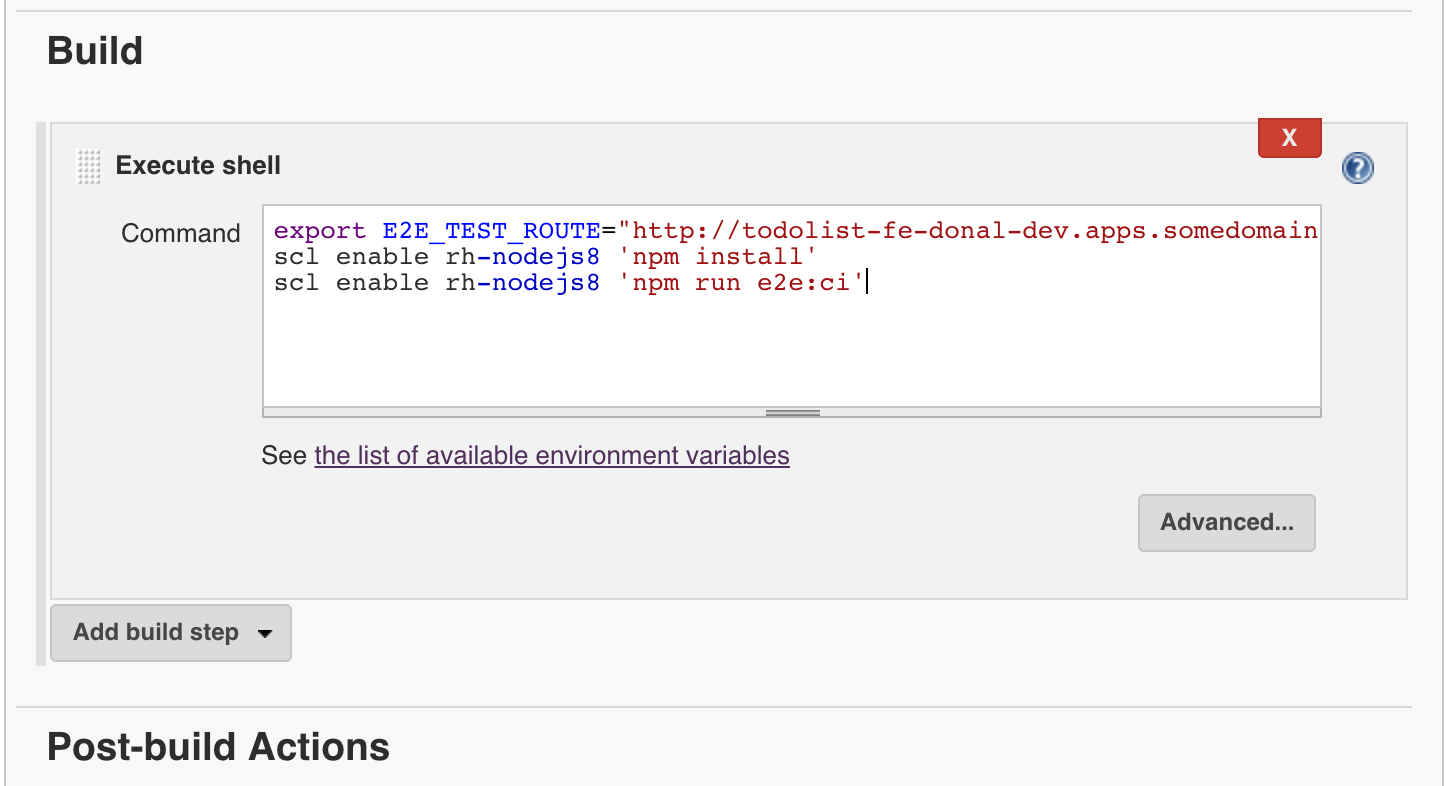
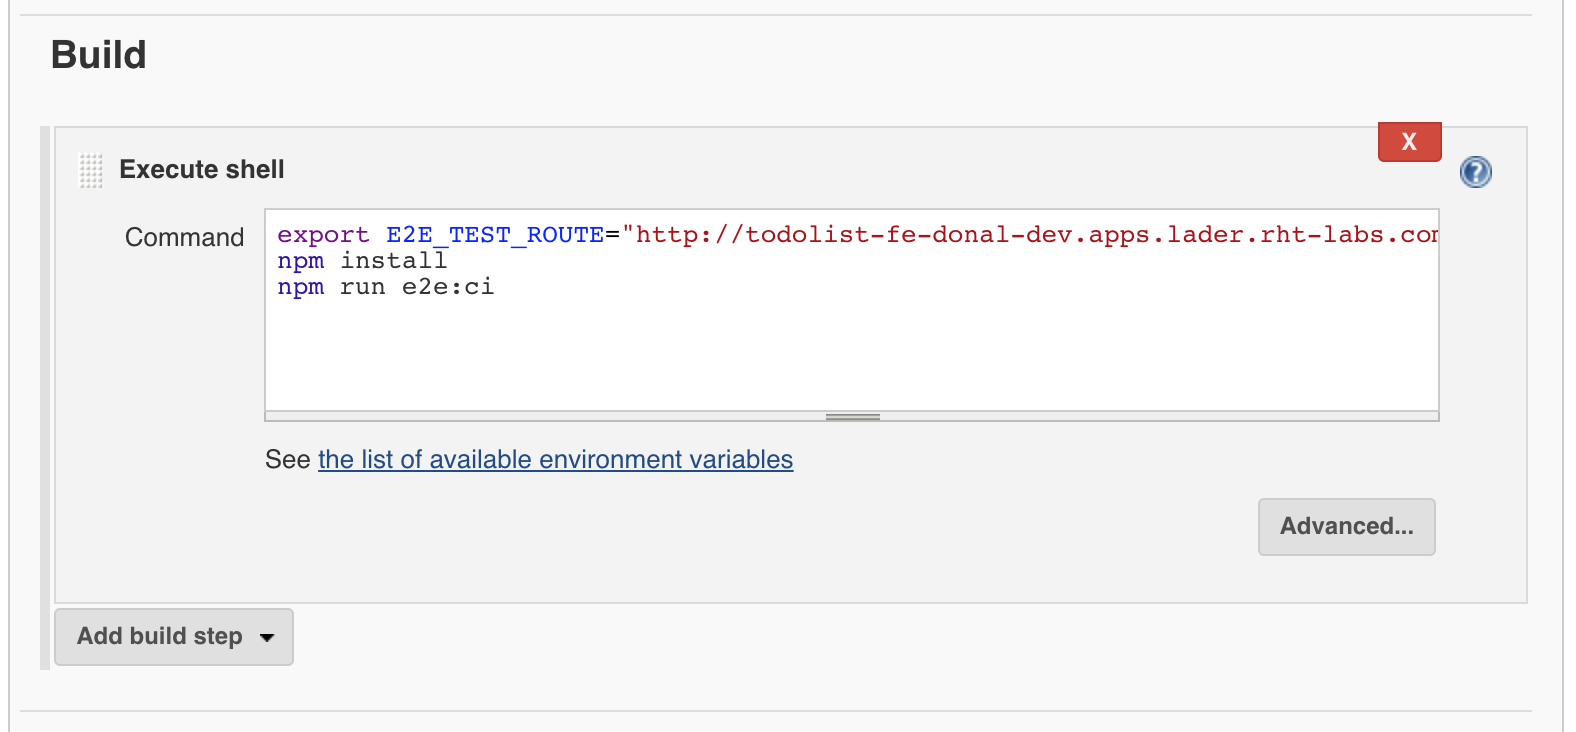
TESTS - fixes for e2e runnins

diff --git a/exercises/3-revenge-of-the-automated-testing/README.md b/exercises/3-revenge-of-the-automated-testing/README.md
@@ -197,7 +197,7 @@ $ npm run e2e
 
 2. Set `Color ANSI Console Output` on the `Build Environment` section 
 
-2. On the Build section; add a build step to execute shell and fill in the followin substituting the domain name and `YOUR_NAME` accordingly:
+2. On the Build section; add a build step to execute shell and fill in the followin substituting the domain name and `<YOUR_NAME>` and `somedomain` accordingly:
 ```bash
 export E2E_TEST_ROUTE="http://todolist-fe-<YOUR_NAME>-dev.apps.somedomain.com/"
 npm install
@@ -205,13 +205,13 @@ npm run e2e:ci
 ```
 ![e2e-steps](../images/exercise3/e2e-steps.png)
 
-2. Add a Post Build action to publish Junit test scores and add `reports/e2e/specs/*.xml` to the report location.
+2. Add a Post Build action to publish Junit test scores and add `reports/e2e/specs/*.xml` to the report location. Save the configuration.
 ![e2e-post-build](../images/exercise3/e2e-post-build.png)
 
-2. Finally; connect the e2e job to our deploy by editing the post build actions on `dev-todolist-fe-deploy`. Set trigger parameterised build on other jobs to be `dev-todolist-fe-e2e` and set the params to the current ones.
+2. Finally; connect the e2e job to our dev pipleline by editing the post build actions on `dev-todolist-fe-deploy` job. Set trigger parameterised build on other jobs to be `dev-todolist-fe-e2e`. Add a Parameter and set the it to the `Current build parameters` and save the settings.
 ![e2e-trigger](../images/exercise3/e2e-trigger.png)
 
-2. Run the pipeline from the beginning to see the tests executed.
+2. Run the pipeline from the beginning to see the tests executed (two executions will show tests scores on the graph!).
 
 ### Part 2 - TodoList new feature
 > _In this exercise we will introduce a new feature to create an important flag on the todos. In order to be able to build and test our feature we will use TDD_

diff --git a/exercises/1-the-manual-menace/README.md b/exercises/1-the-manual-menace/README.md
@@ -36,6 +36,8 @@ As a learner you will be able to
 This exercise begins with an empty Cluster
 > TODO - add big picture here...
 
+![ds-messing-around.gif](../images/exercise1/ds-messing-around.gif)
+
 _____
 
 ## 10,000 Ft View
